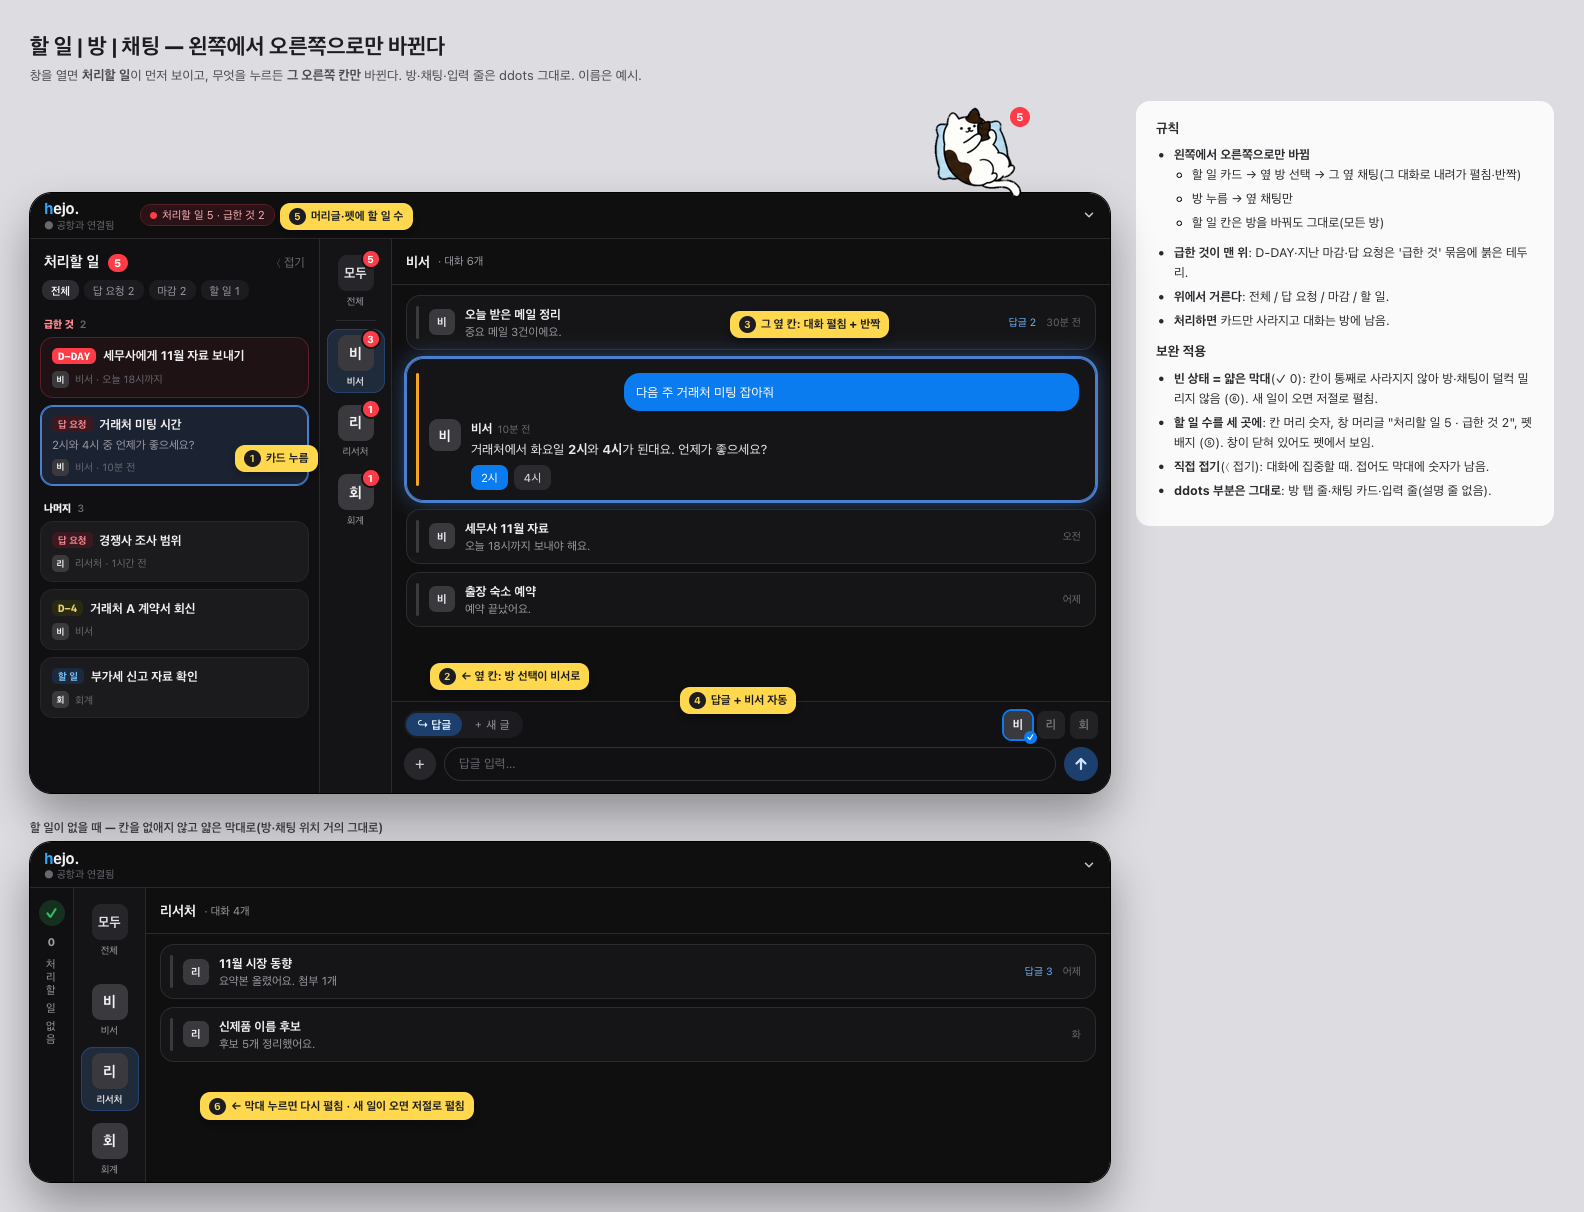
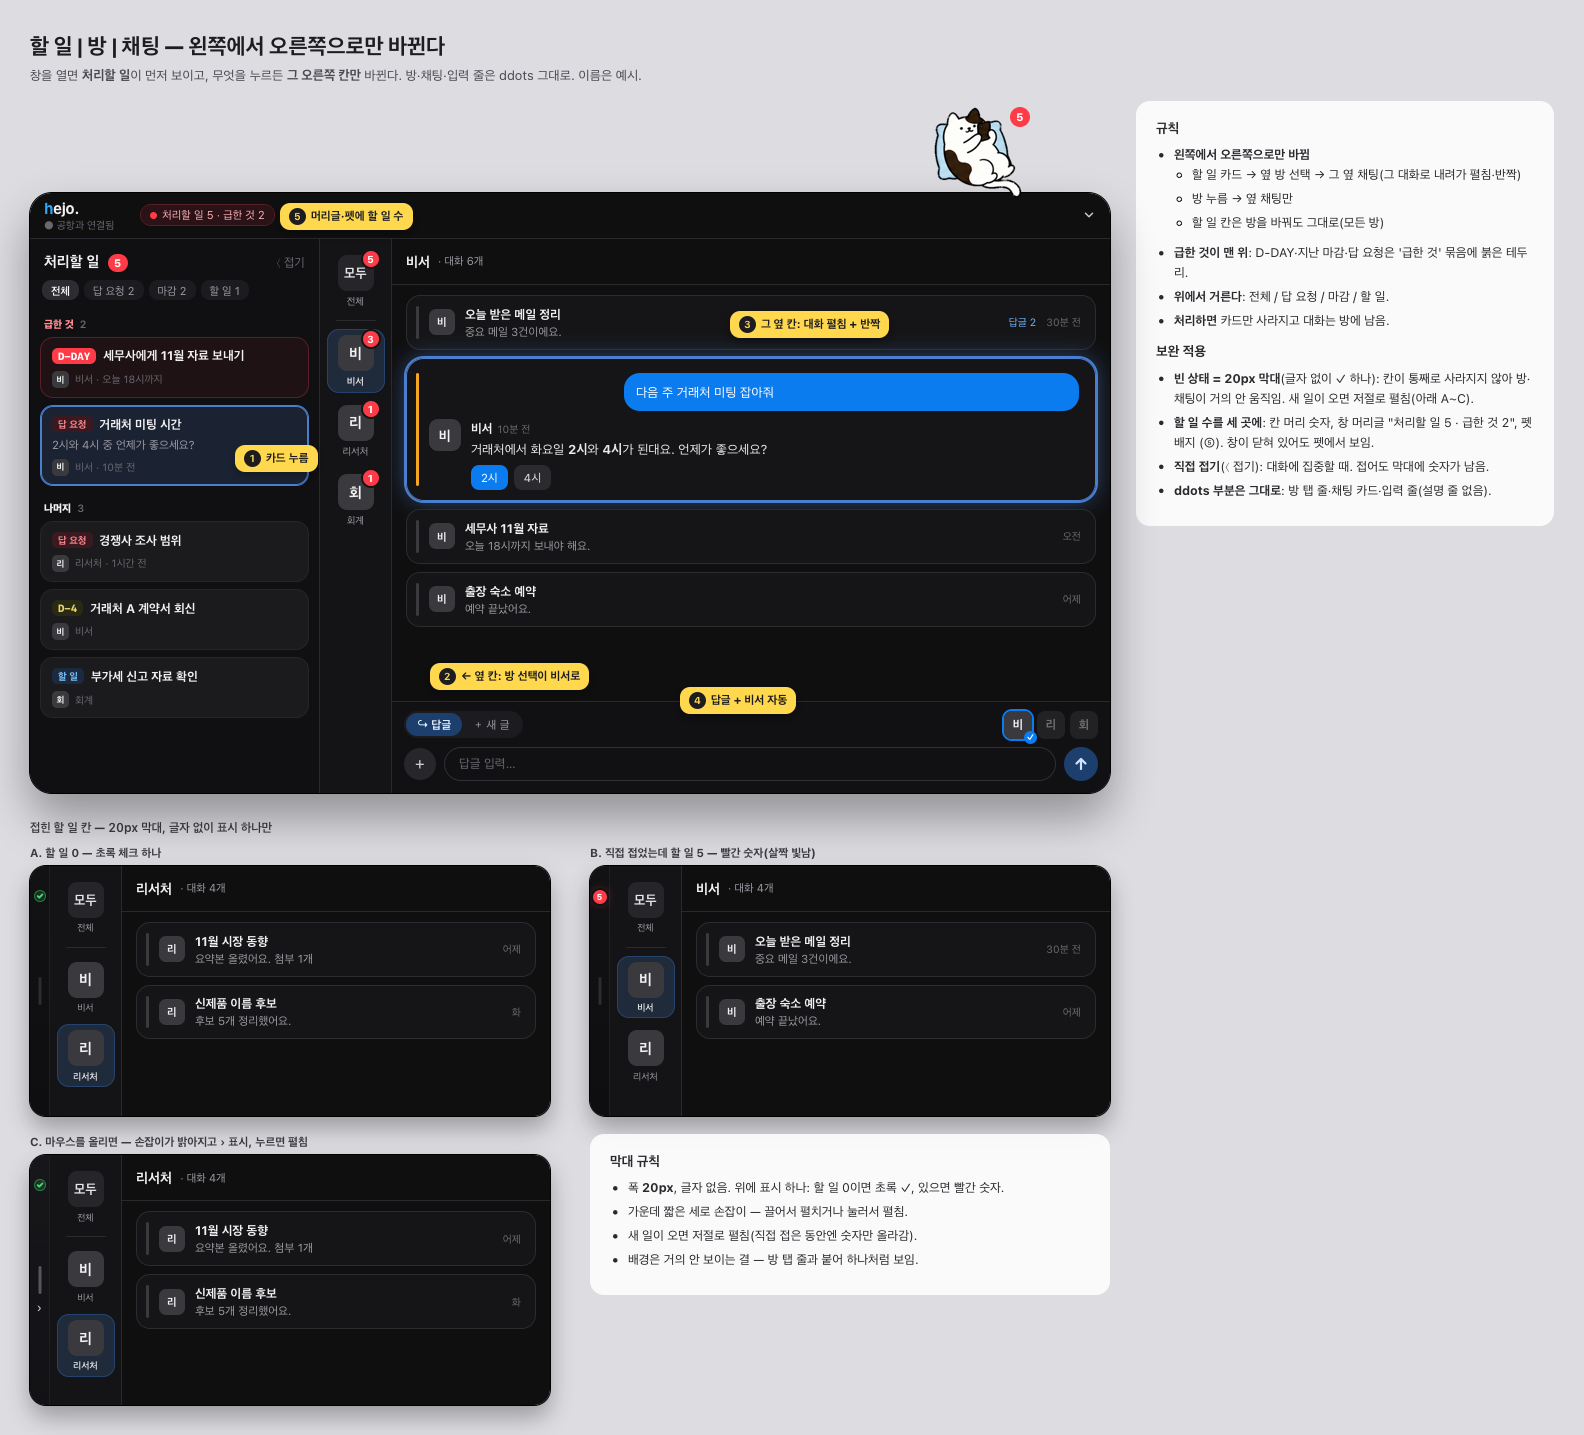
UI 제안 v14 보완: 접힌 할 일 칸을 20px 글자 없는 막대로

diff --git a/docs/changes/HEJO-FOUNDATION-20261114/mockup/hejo-ui-v14-order.html b/docs/changes/HEJO-FOUNDATION-20261114/mockup/hejo-ui-v14-order.html
@@ -192,6 +192,20 @@
   .urg { border-color:#5a1f27 !important; background:#1f1214 !important; }
   .urg.sel { border-color:#4a7fd0 !important; background:#1b2333 !important; }
 </style>
+<style>
+  .rail2 { width:20px; position:relative; background:linear-gradient(180deg,#121214,#0e0e10); border-right:1px solid #1f1f23; display:flex; flex-direction:column; align-items:center; padding-top:24px; gap:10px; }
+  .rail2 .ck { width:12px; height:12px; border-radius:50%; background:rgba(47,191,91,.18); box-shadow:inset 0 0 0 1px rgba(47,191,91,.55); display:flex; align-items:center; justify-content:center; }
+  .rail2 .ck svg { width:8px; height:8px; stroke:#4fd27a; stroke-width:2.4; }
+  .rail2 .rc2 { min-width:14px; height:14px; border-radius:7px; background:var(--red); color:#fff; font-size:8.5px; font-weight:800; display:flex; align-items:center; justify-content:center; padding:0 3px; box-shadow:0 0 0 2px #121214, 0 0 10px rgba(255,59,71,.45); }
+  .rail2 .grip { position:absolute; top:50%; left:50%; transform:translate(-50%,-50%); width:3px; height:28px; border-radius:2px; background:#2c2c31; }
+  .rail2.hover { background:linear-gradient(180deg,#17171a,#121215); }
+  .rail2.hover .grip { background:#55555d; }
+  .rail2.hover::after { content:"›"; position:absolute; top:50%; left:50%; transform:translate(-50%,-50%); color:#cfcfd4; font-size:13px; margin-top:26px; }
+  .vgrid { display:grid; grid-template-columns:repeat(2, 520px); gap:18px 40px; margin-top:8px; }
+  .mw { background:var(--bg); color:var(--text); border-radius:16px; height:250px; overflow:hidden; display:flex; box-shadow:0 0 0 1px #000, 0 12px 28px rgba(0,0,0,.3); }
+  .mw .strip .tab { font-size:9.5px; }
+  .zoom { position:relative; }
+</style>
 </head>
 <body>
 <h1>할 일 | 방 | 채팅 — 왼쪽에서 오른쪽으로만 바뀐다</h1>
@@ -247,27 +261,22 @@
   <div class="call" style="left:250px;top:10px"><i>5</i>머리글·펫에 할 일 수</div>
 </div>
 
-<p class="cap" style="margin-top:26px">할 일이 없을 때 — 칸을 없애지 않고 얇은 막대로(방·채팅 위치 거의 그대로)</p>
-<div class="win" style="width:1080px;height:340px;position:relative">
-  <div class="bar"><div class="brand" style="width:auto"><b><i>h</i>ejo.</b><small>● 공항과 연결됨</small></div><div style="flex:1"></div><div class="ico"><svg viewBox="0 0 16 16"><path d="M4 6l4 4 4-4"/></svg></div></div>
-  <div class="main">
-    <div class="rail"><span class="ok">✓</span><span class="zero">0</span><span class="vt">처리할 일 없음</span></div>
-    <div class="strip">
-      <div class="tab all"><div class="tile">모두</div>전체</div>
-      <div class="sline"></div>
-      <div class="tab"><div class="tile">비</div>비서</div>
-      <div class="tab sel"><div class="tile">리</div>리서처</div>
-      <div class="tab"><div class="tile">회</div>회계</div>
-    </div>
-    <div class="conv2">
-      <div class="colh"><b>리서처</b><small>· 대화 4개</small></div>
-      <div class="feed">
-        <div class="fold"><div class="tile">리</div><div class="tx"><b>11월 시장 동향</b><small>요약본 올렸어요. 첨부 1개</small></div><span class="rc">답글 3</span><span class="tm">어제</span></div>
-        <div class="fold"><div class="tile">리</div><div class="tx"><b>신제품 이름 후보</b><small>후보 5개 정리했어요.</small></div><span class="tm">화</span></div>
-      </div>
-    </div>
-  </div>
-  <div class="call" style="left:170px;top:250px"><i>6</i>← 막대 누르면 다시 펼침 · 새 일이 오면 저절로 펼침</div>
+<p class="cap" style="margin-top:26px">접힌 할 일 칸 — 20px 막대, 글자 없이 표시 하나만</p>
+<div class="vgrid">
+  <div><div class="lab2">A. 할 일 0 — 초록 체크 하나</div><div class="mw"><div class="rail2"><span class="ck"><svg viewBox="0 0 10 10"><path d="M2.2 5.2l1.9 1.9 3.8-4"/></svg></span><span class="grip"></span></div>
+    <div class="strip"><div class="tab all"><div class="tile">모두</div>전체</div><div class="sline"></div><div class="tab"><div class="tile">비</div>비서</div><div class="tab sel"><div class="tile">리</div>리서처</div></div>
+    <div class="conv2"><div class="colh"><b>리서처</b><small>· 대화 4개</small></div><div class="feed"><div class="fold"><div class="tile">리</div><div class="tx"><b>11월 시장 동향</b><small>요약본 올렸어요. 첨부 1개</small></div><span class="tm">어제</span></div><div class="fold"><div class="tile">리</div><div class="tx"><b>신제품 이름 후보</b><small>후보 5개 정리했어요.</small></div><span class="tm">화</span></div></div></div></div></div>
+  <div><div class="lab2">B. 직접 접었는데 할 일 5 — 빨간 숫자(살짝 빛남)</div><div class="mw"><div class="rail2"><span class="rc2">5</span><span class="grip"></span></div>
+    <div class="strip"><div class="tab all"><div class="tile">모두</div>전체</div><div class="sline"></div><div class="tab sel"><div class="tile">비</div>비서</div><div class="tab"><div class="tile">리</div>리서처</div></div>
+    <div class="conv2"><div class="colh"><b>비서</b><small>· 대화 4개</small></div><div class="feed"><div class="fold"><div class="tile">비</div><div class="tx"><b>오늘 받은 메일 정리</b><small>중요 메일 3건이에요.</small></div><span class="tm">30분 전</span></div><div class="fold"><div class="tile">비</div><div class="tx"><b>출장 숙소 예약</b><small>예약 끝났어요.</small></div><span class="tm">어제</span></div></div></div></div></div>
+  <div><div class="lab2">C. 마우스를 올리면 — 손잡이가 밝아지고 › 표시, 누르면 펼침</div><div class="mw"><div class="rail2 hover"><span class="ck"><svg viewBox="0 0 10 10"><path d="M2.2 5.2l1.9 1.9 3.8-4"/></svg></span><span class="grip"></span></div>
+    <div class="strip"><div class="tab all"><div class="tile">모두</div>전체</div><div class="sline"></div><div class="tab"><div class="tile">비</div>비서</div><div class="tab sel"><div class="tile">리</div>리서처</div></div>
+    <div class="conv2"><div class="colh"><b>리서처</b><small>· 대화 4개</small></div><div class="feed"><div class="fold"><div class="tile">리</div><div class="tx"><b>11월 시장 동향</b><small>요약본 올렸어요. 첨부 1개</small></div><span class="tm">어제</span></div><div class="fold"><div class="tile">리</div><div class="tx"><b>신제품 이름 후보</b><small>후보 5개 정리했어요.</small></div><span class="tm">화</span></div></div></div></div></div>
+  <div class="legend" style="width:520px;align-self:start"><h3>막대 규칙</h3><ul>
+  <li>폭 <b>20px</b>, 글자 없음. 위에 표시 하나: 할 일 0이면 초록 ✓, 있으면 빨간 숫자.</li>
+  <li>가운데 짧은 세로 손잡이 — 끌어서 펼치거나 눌러서 펼침.</li>
+  <li>새 일이 오면 저절로 펼침(직접 접은 동안엔 숫자만 올라감).</li>
+  <li>배경은 거의 안 보이는 결 — 방 탭 줄과 붙어 하나처럼 보임.</li></ul></div>
 </div>
 </div>
 
@@ -284,7 +293,7 @@
 </ul>
 <h3>보완 적용</h3>
 <ul>
-<li><b>빈 상태 = 얇은 막대</b>(✓ 0): 칸이 통째로 사라지지 않아 방·채팅이 덜컥 밀리지 않음 (⑥). 새 일이 오면 저절로 펼침.</li>
+<li><b>빈 상태 = 20px 막대</b>(글자 없이 ✓ 하나): 칸이 통째로 사라지지 않아 방·채팅이 거의 안 움직임. 새 일이 오면 저절로 펼침(아래 A~C).</li>
 <li><b>할 일 수를 세 곳에</b>: 칸 머리 숫자, 창 머리글 "처리할 일 5 · 급한 것 2", 펫 배지 (⑤). 창이 닫혀 있어도 펫에서 보임.</li>
 <li><b>직접 접기</b>(⟨ 접기): 대화에 집중할 때. 접어도 막대에 숫자가 남음.</li>
 <li><b>ddots 부분은 그대로</b>: 방 탭 줄·채팅 카드·입력 줄(설명 줄 없음).</li>
